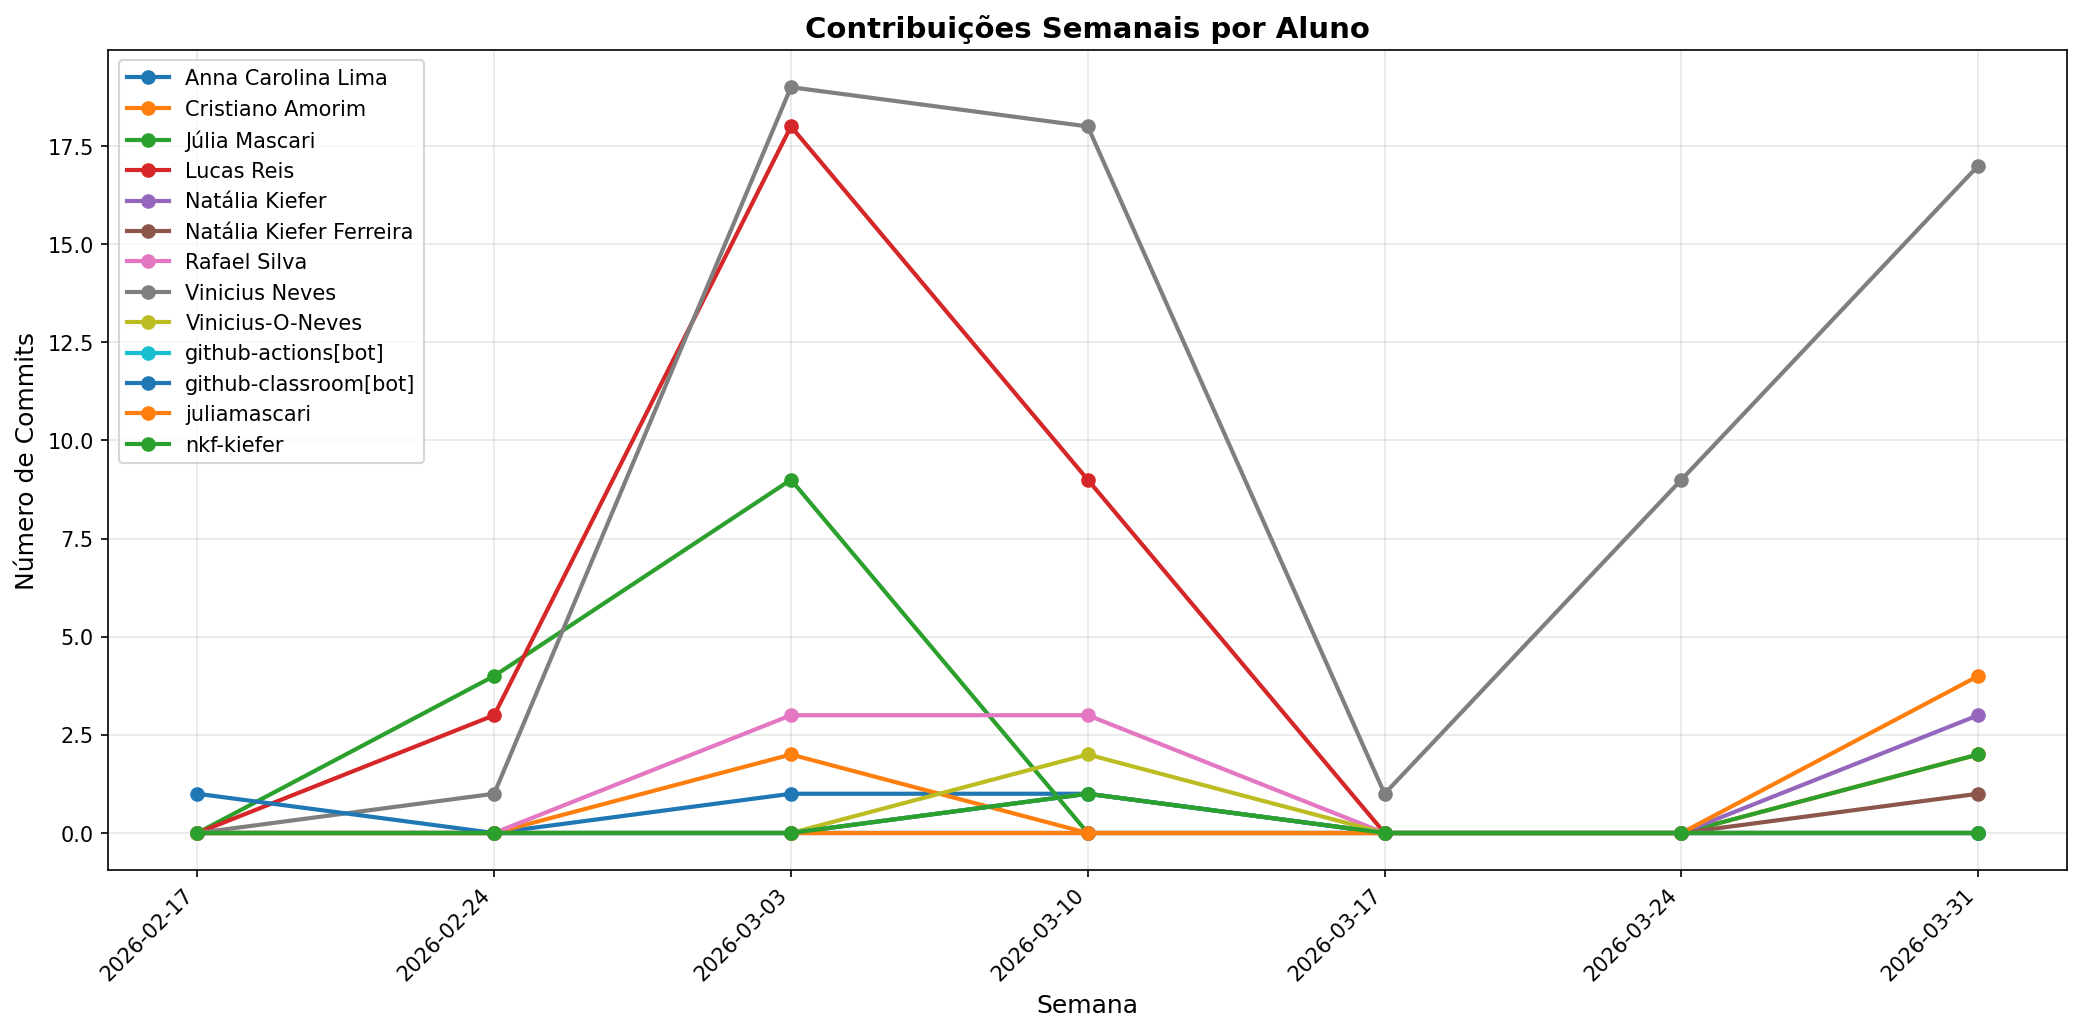
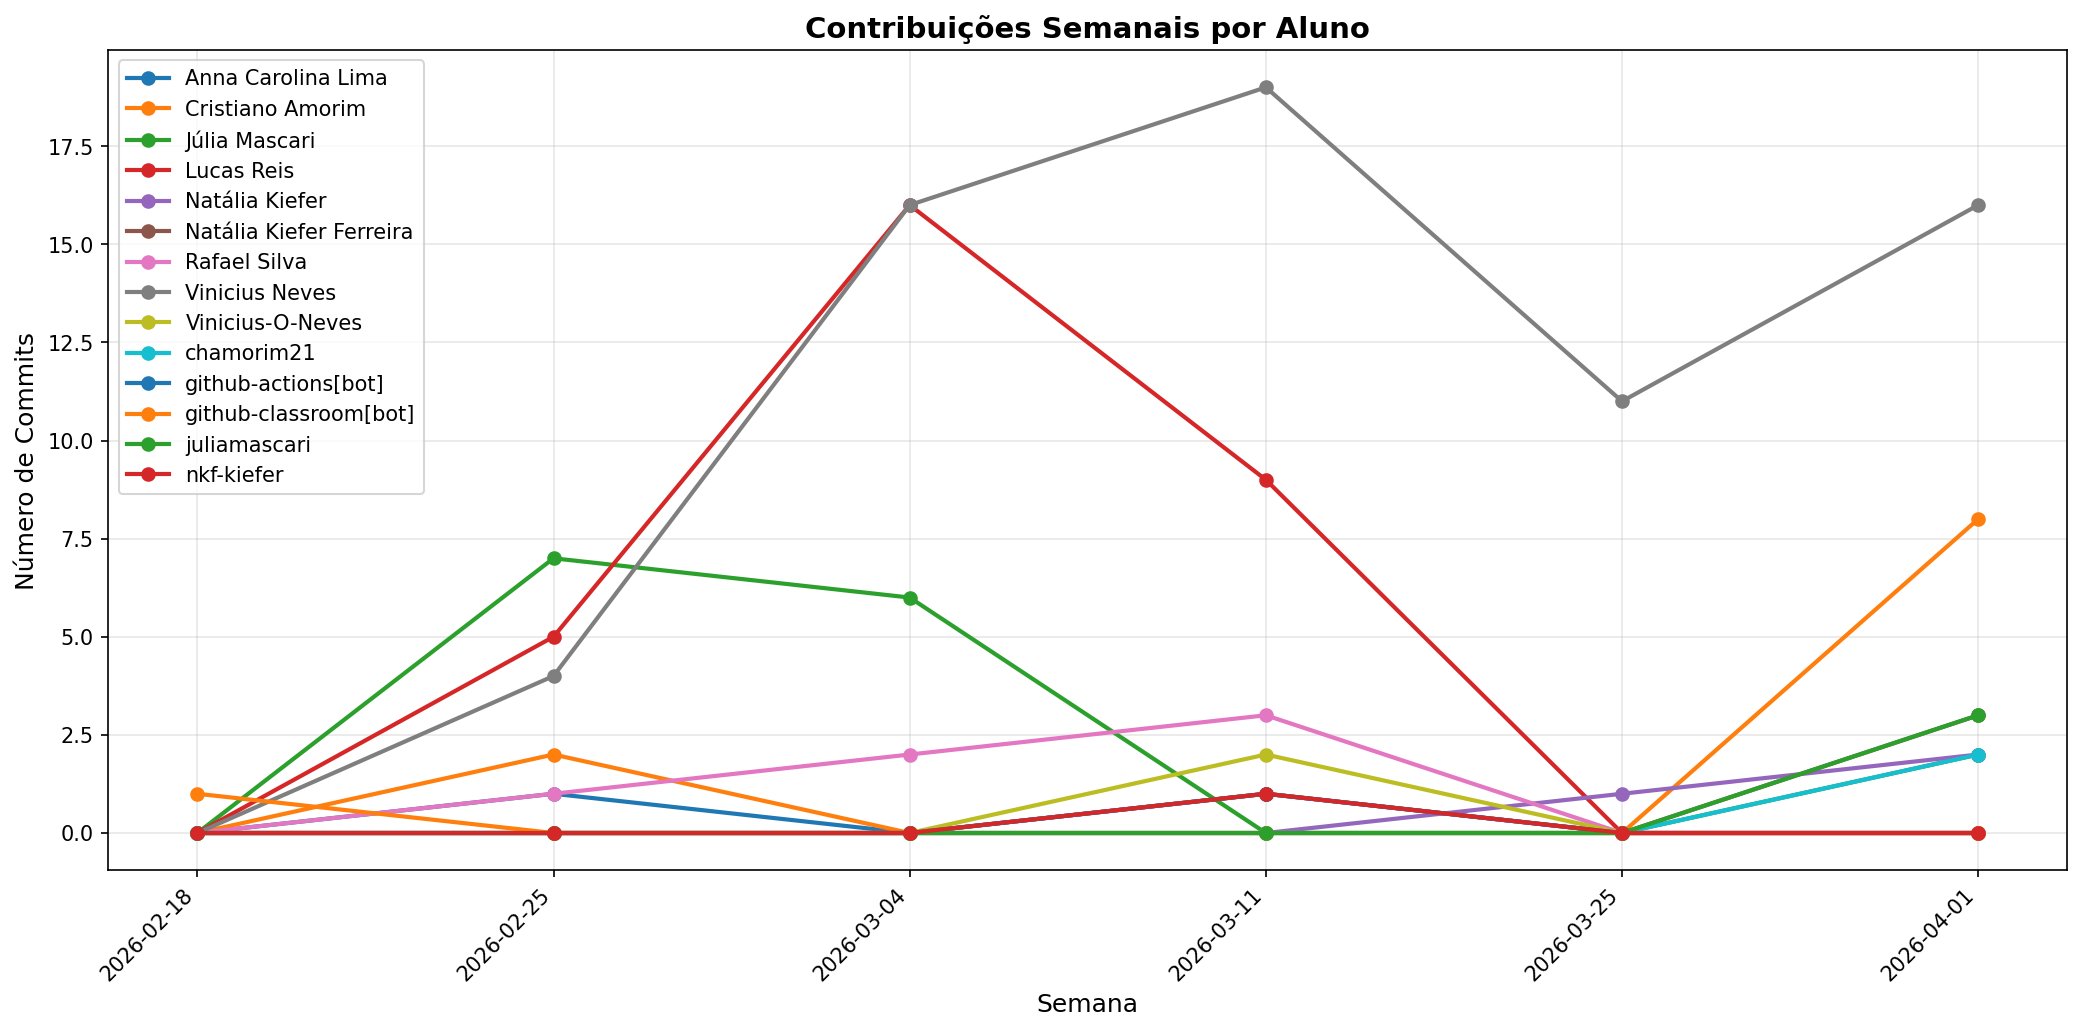
📊 docs: atualizar relatório de contribuições

diff --git a/docs/CONTRIBUTION_REPORT.md b/docs/CONTRIBUTION_REPORT.md
@@ -1,6 +1,6 @@
 # 📊 Relatório de Contribuições do Projeto
 
-**Última atualização:** 07/04/2026 21:52
+**Última atualização:** 08/04/2026 21:31
 
 ---
 
@@ -9,35 +9,34 @@
 | Aluno                   |   Commits |   Linhas+ |   Linhas- |   Arquivos |   Docs Commits |   Docs Arquivos |
 |-------------------------|-----------|-----------|-----------|------------|----------------|-----------------|
 | Anna Carolina Lima      |         2 |        13 |        10 |          2 |              2 |               2 |
-| Cristiano Amorim        |         4 |        23 |        15 |          6 |              1 |               2 |
+| Cristiano Amorim        |        10 |       250 |        23 |          9 |              1 |               2 |
 | Júlia Mascari           |        15 |       116 |        31 |          3 |             11 |               3 |
 | Lucas Reis              |        30 |        48 |        48 |          4 |             23 |               3 |
 | Natália Kiefer          |         3 |       848 |       250 |         17 |              0 |               0 |
-| Natália Kiefer Ferreira |         2 |        19 |        19 |          1 |              1 |               1 |
+| Natália Kiefer Ferreira |         4 |        19 |        19 |          1 |              1 |               1 |
 | Rafael Silva            |         6 |        24 |        36 |          3 |              6 |               3 |
-| Vinicius Neves          |        65 |   1298361 |   1287416 |       5668 |             26 |               6 |
+| Vinicius Neves          |        66 |   1298361 |   1287416 |       5668 |             26 |               6 |
 | Vinicius-O-Neves        |         2 |        11 |         4 |          4 |              1 |               1 |
+| chamorim21              |         2 |        29 |        21 |          3 |              2 |               1 |
 | github-actions[bot]     |         1 |        28 |        31 |          3 |              1 |               1 |
 | github-classroom[bot]   |         1 |      2152 |         0 |         45 |              1 |              13 |
-| juliamascari            |         4 |       298 |       101 |         15 |              1 |               1 |
+| juliamascari            |         3 |       284 |        92 |         12 |              0 |               0 |
 | nkf-kiefer              |         1 |        16 |        15 |          3 |              1 |               1 |
 
 
 ## 📅 Contribuições Semanais (Todo o Semestre)
 
-**2026-03-31**: Cristiano Amorim: 2, Júlia Mascari: 2, Natália Kiefer: 3, Natália Kiefer Ferreira: 1, Vinicius Neves: 17, juliamascari: 4
+**2026-04-01**: Cristiano Amorim: 8, Júlia Mascari: 2, Natália Kiefer: 2, Natália Kiefer Ferreira: 3, Vinicius Neves: 16, chamorim21: 2, juliamascari: 3
 
-**2026-03-24**: Vinicius Neves: 9
+**2026-03-25**: Natália Kiefer: 1, Vinicius Neves: 11
 
-**2026-03-17**: Vinicius Neves: 1
+**2026-03-11**: Anna Carolina Lima: 1, Lucas Reis: 9, Natália Kiefer Ferreira: 1, Rafael Silva: 3, Vinicius Neves: 19, Vinicius-O-Neves: 2, github-actions[bot]: 1, nkf-kiefer: 1
 
-**2026-03-10**: Anna Carolina Lima: 1, Lucas Reis: 9, Natália Kiefer Ferreira: 1, Rafael Silva: 3, Vinicius Neves: 18, Vinicius-O-Neves: 2, github-actions[bot]: 1, nkf-kiefer: 1
+**2026-03-04**: Júlia Mascari: 6, Lucas Reis: 16, Rafael Silva: 2, Vinicius Neves: 16
 
-**2026-03-03**: Anna Carolina Lima: 1, Cristiano Amorim: 2, Júlia Mascari: 9, Lucas Reis: 18, Rafael Silva: 3, Vinicius Neves: 19
+**2026-02-25**: Anna Carolina Lima: 1, Cristiano Amorim: 2, Júlia Mascari: 7, Lucas Reis: 5, Rafael Silva: 1, Vinicius Neves: 4
 
-**2026-02-24**: Júlia Mascari: 4, Lucas Reis: 3, Vinicius Neves: 1
-
-**2026-02-17**: github-classroom[bot]: 1
+**2026-02-18**: github-classroom[bot]: 1
 
 
 
